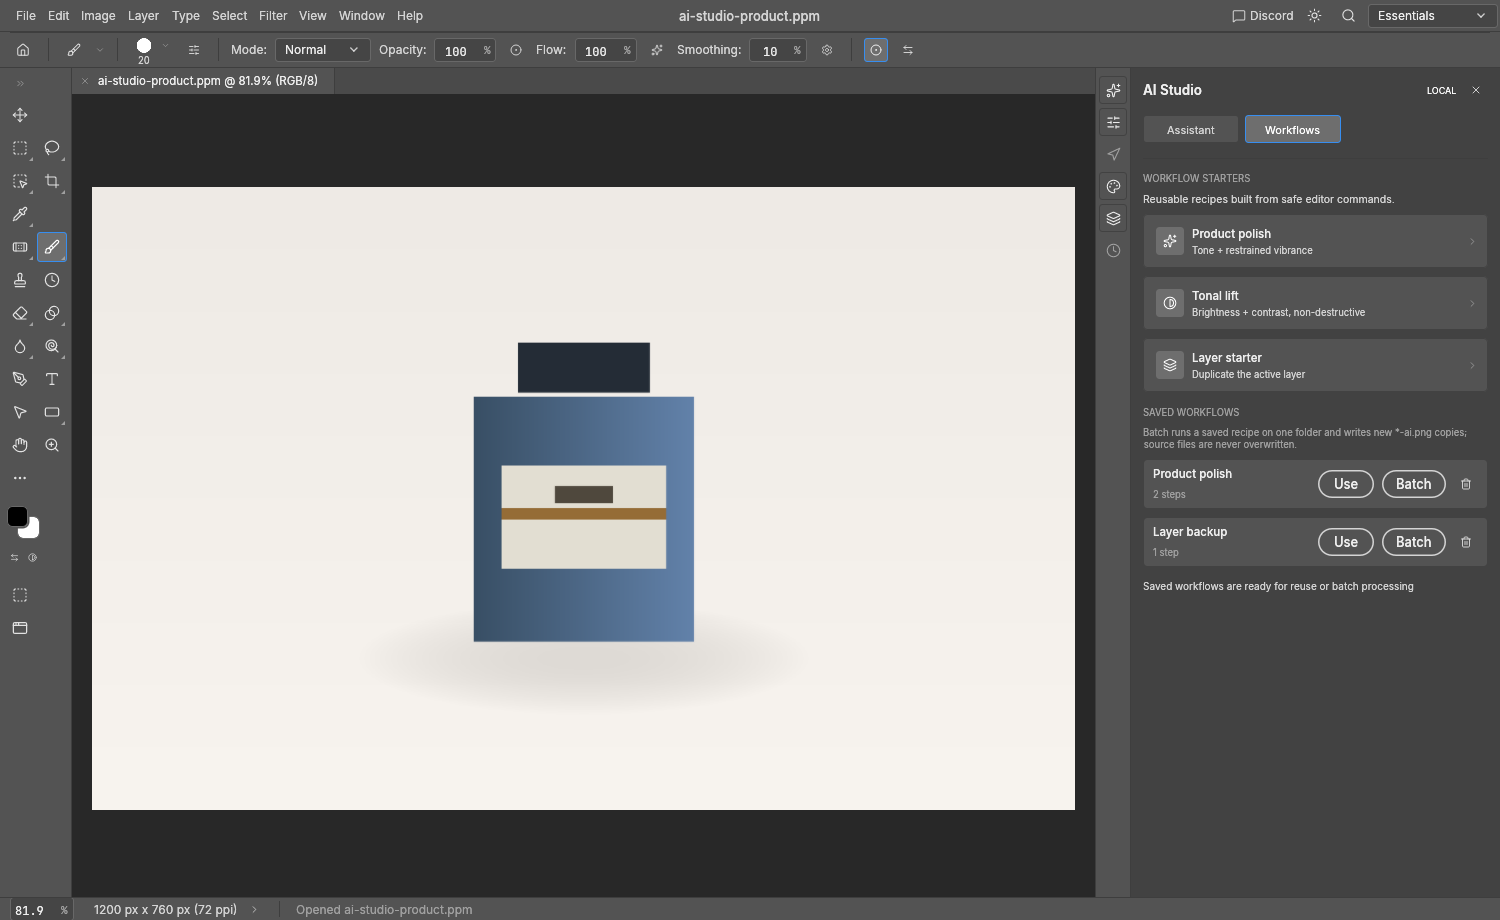
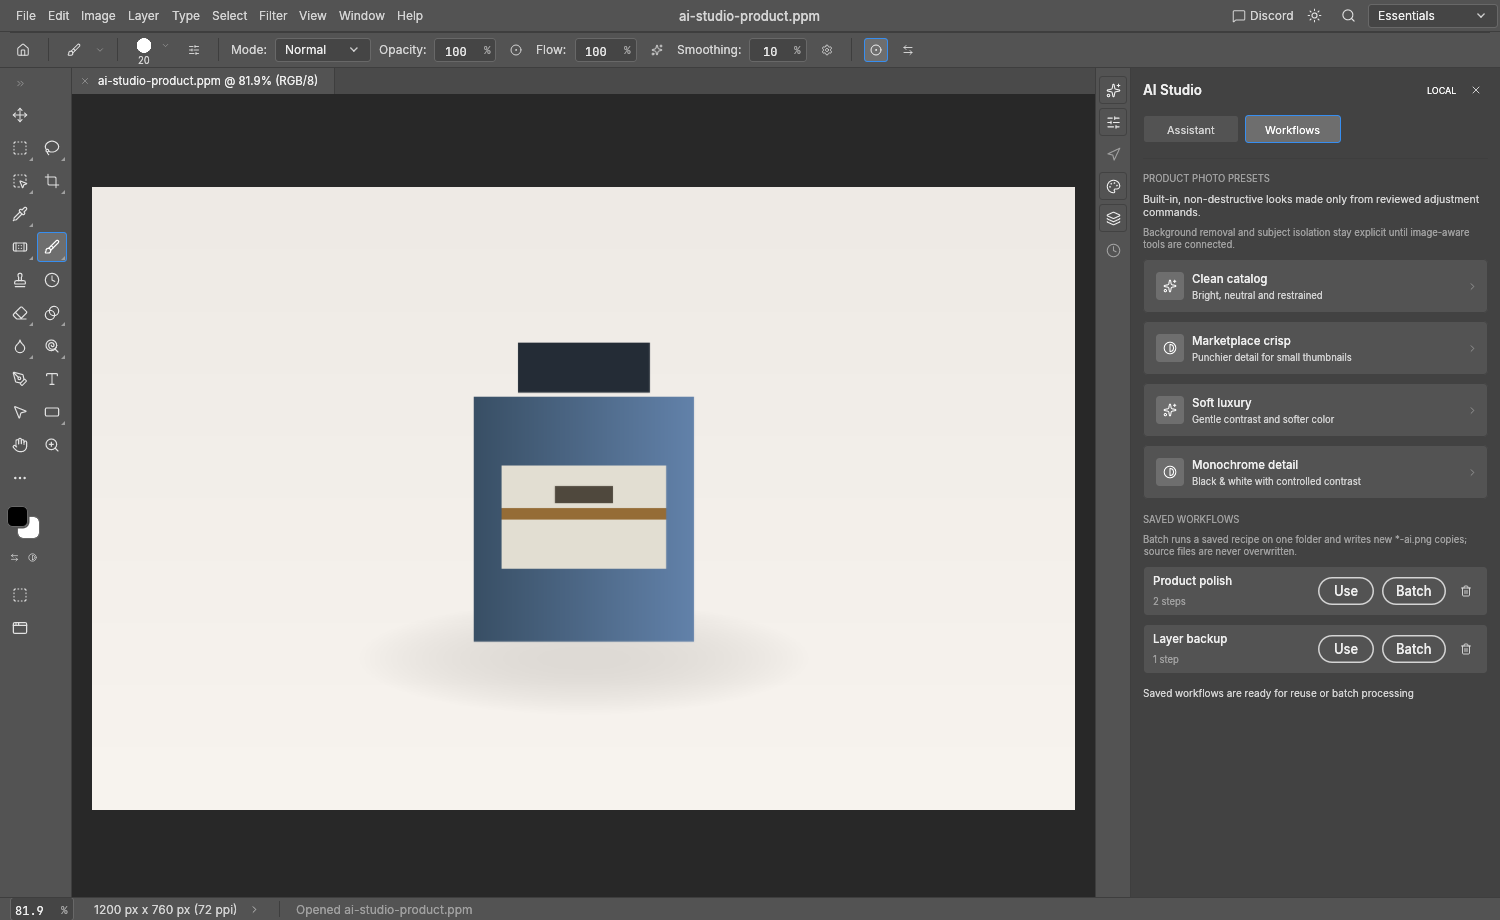
feat: add product photo workflow presets

Changed region(s): [[0.7667, 0.1826, 0.9813, 0.7], [0.7667, 0.7, 0.9813, 0.7609]]

diff --git a/crates/ui-egui/src/ai_panel.rs b/crates/ui-egui/src/ai_panel.rs
@@ -79,6 +79,73 @@ pub struct AiWorkflow {
     pub steps: Vec<AiStep>,
 }
 
+#[derive(Clone, Debug, PartialEq)]
+struct ProductPhotoPreset {
+    id: &'static str,
+    icon: &'static str,
+    title: &'static str,
+    subtitle: &'static str,
+    steps: Vec<AiStep>,
+}
+
+/// Built-in product-photo recipes intentionally use only reviewed, non-destructive adjustment
+/// commands. They do not pretend to remove backgrounds or isolate subjects: those operations need
+/// image-aware capabilities that are outside the current safe command surface.
+fn product_photo_presets() -> Vec<ProductPhotoPreset> {
+    vec![
+        ProductPhotoPreset {
+            id: "clean-catalog",
+            icon: "sparkles",
+            title: "Clean catalog",
+            subtitle: "Bright, neutral and restrained",
+            steps: vec![
+                AiStep::command("Open up the product tones", "layer.newAdjustmentLayer.brightnessContrast", json!({"brightness": 10, "contrast": 4})),
+                AiStep::command("Keep color natural", "layer.newAdjustmentLayer.vibrance", json!({"vibrance": 8, "saturation": 0})),
+            ],
+        },
+        ProductPhotoPreset {
+            id: "marketplace-crisp",
+            icon: "contrast",
+            title: "Marketplace crisp",
+            subtitle: "Punchier detail for small thumbnails",
+            steps: vec![
+                AiStep::command("Add crisp tonal separation", "layer.newAdjustmentLayer.brightnessContrast", json!({"brightness": 6, "contrast": 12})),
+                AiStep::command(
+                    "Shape the midtone curve",
+                    "layer.newAdjustmentLayer.curves",
+                    json!({"points": [[0, 0], [64, 58], [128, 132], [192, 202], [255, 255]]}),
+                ),
+                AiStep::command("Add controlled color pop", "layer.newAdjustmentLayer.vibrance", json!({"vibrance": 12, "saturation": 2})),
+            ],
+        },
+        ProductPhotoPreset {
+            id: "soft-luxury",
+            icon: "sparkles",
+            title: "Soft luxury",
+            subtitle: "Gentle contrast and softer color",
+            steps: vec![
+                AiStep::command("Soften the base contrast", "layer.newAdjustmentLayer.brightnessContrast", json!({"brightness": 5, "contrast": -4})),
+                AiStep::command(
+                    "Lift shadows and soften highlights",
+                    "layer.newAdjustmentLayer.curves",
+                    json!({"points": [[0, 8], [64, 70], [128, 134], [192, 195], [255, 248]]}),
+                ),
+                AiStep::command("Restrain saturation", "layer.newAdjustmentLayer.vibrance", json!({"vibrance": 5, "saturation": -4})),
+            ],
+        },
+        ProductPhotoPreset {
+            id: "mono-detail",
+            icon: "contrast",
+            title: "Monochrome detail",
+            subtitle: "Black & white with controlled contrast",
+            steps: vec![
+                AiStep::command("Convert with an editable B&W layer", "layer.newAdjustmentLayer.blackWhite", json!({})),
+                AiStep::command("Strengthen product detail", "layer.newAdjustmentLayer.brightnessContrast", json!({"brightness": 3, "contrast": 10})),
+            ],
+        },
+    ]
+}
+
 /// One desktop folder-batch request. The native runner revalidates `workflow` before touching any
 /// output and never writes to `input_dir`.
 #[derive(Clone, Debug, PartialEq)]
@@ -1104,17 +1171,15 @@ fn workflows_panel(app: &mut PhotocraftApp, ui: &mut egui::Ui) {
     let t = Tokens::get(ui.ctx());
     ui.spacing_mut().item_spacing.y = 8.0;
     ui.add_space(2.0);
-    ui.label(RichText::new("WORKFLOW STARTERS").size(9.5).color(t.text_faint).strong());
-    ui.label(RichText::new("Reusable recipes built from safe editor commands.").size(10.5).color(t.text_dim));
+    ui.label(RichText::new("PRODUCT PHOTO PRESETS").size(9.5).color(t.text_faint).strong());
+    ui.label(RichText::new("Built-in, non-destructive looks made only from reviewed adjustment commands.").size(10.5).color(t.text_dim));
+    ui.label(RichText::new("Background removal and subject isolation stay explicit until image-aware tools are connected.").size(9.5).color(t.text_faint));
 
-    for (icon, title, subtitle, prompt) in [
-        ("sparkles", "Product polish", "Tone + restrained vibrance", "Make it brighter with a little more contrast and vibrance"),
-        ("contrast", "Tonal lift", "Brightness + contrast, non-destructive", "Make this brighter and add contrast"),
-        ("layers", "Layer starter", "Duplicate the active layer", "Duplicate the active layer"),
-    ] {
-        if workflow_card(ui, &t, icon, title, subtitle) {
-            let prompt = prompt.to_string();
-            apply_plan(app, prompt.clone(), plan(&prompt), "workflow");
+    for preset in product_photo_presets() {
+        if workflow_card(ui, &t, preset.icon, preset.title, preset.subtitle) {
+            let prompt = format!("Use the {} product-photo preset", preset.title);
+            let planned = PlannedRequest { title: preset.title.into(), steps: preset.steps };
+            apply_plan(app, prompt, planned, "built-in product preset");
             app.ui.ai.tab = 0;
         }
     }
@@ -1222,6 +1287,44 @@ mod tests {
         assert!(p.steps.len() >= 2);
         assert!(validate(&p.steps).is_ok());
         assert!(p.steps.iter().all(|s| s.command.as_deref().is_some_and(|c| c.starts_with("layer."))));
+    }
+
+    #[test]
+    fn product_photo_presets_are_safe_non_destructive_plans() {
+        let presets = product_photo_presets();
+        assert_eq!(presets.len(), 4);
+        let mut ids = std::collections::BTreeSet::new();
+        for preset in presets {
+            assert!(ids.insert(preset.id), "duplicate preset id: {}", preset.id);
+            assert!(validate(&preset.steps).is_ok(), "{} must stay inside the reviewed AI boundary", preset.title);
+            assert!(
+                preset.steps.iter().all(|step| step.command.as_deref().is_some_and(|command| command.starts_with("layer.newAdjustmentLayer."))),
+                "{} should remain non-destructive and batch-safe",
+                preset.title
+            );
+        }
+    }
+
+    #[test]
+    fn product_photo_presets_execute_against_the_editor_engine() {
+        for preset in product_photo_presets() {
+            let mut app = PhotocraftApp::new(photocraft_engine::Session::new(), crate::Services::default());
+            app.run("file.new", json!({"width": 32, "height": 32})).unwrap();
+            app.ui.ai.plan_title = preset.title.into();
+            app.ui.ai.plan = preset.steps;
+            run_plan(&mut app);
+            assert!(!app.ui.ai.status_error, "{} failed: {}", preset.title, app.ui.ai.status);
+            assert!(app.session.undo(), "{} should remain one undoable editor transaction", preset.title);
+        }
+    }
+
+    #[test]
+    fn product_photo_presets_do_not_claim_unavailable_background_work() {
+        for preset in product_photo_presets() {
+            let text = format!("{} {}", preset.title, preset.subtitle).to_ascii_lowercase();
+            assert!(!text.contains("remove background"));
+            assert!(!text.contains("isolate"));
+        }
     }
 
     #[test]

diff --git a/docs/ai-studio.md b/docs/ai-studio.md
@@ -58,3 +58,11 @@ Before execution, AI Studio presents each step in editor language rather than ex
 ## Atomic plan execution
 
 Executable AI plans run as one history transaction. The shell injects an internal coalescing key only after the plan has passed validation, so model output and saved workflows cannot control history grouping. A successful multi-step plan appears as one `AI Plan: ?` undo state. If any later step fails, AI Studio automatically undoes the already-applied steps, removes the failed plan from redo history, and restores the command journal to its pre-plan state.
+
+## Product Photo Presets V1
+
+The Workflows tab includes four deterministic product-photo presets: **Clean catalog**, **Marketplace crisp**, **Soft luxury**, and **Monochrome detail**. These presets are not prompt templates; each expands directly into a reviewed editor plan so the user can inspect the exact adjustment layers before applying it.
+
+All V1 product presets are intentionally non-destructive and batch-safe. They use only brightness/contrast, curves, vibrance, and black-and-white adjustment layers already covered by the AI safety boundary. A preset therefore gets the same validation, plan review, atomic one-Undo execution, saved-workflow support, and folder-batch compatibility as any other executable AI plan.
+
+V1 does **not** claim to remove a background, isolate a product, synthesize shadows, or reposition a subject. Those operations require image-aware selection or generation capabilities that are not yet part of the reviewed command surface. The general product-photo natural-language request continues to show subject isolation as pending rather than pretending it happened.

diff --git a/README.md b/README.md
@@ -75,7 +75,7 @@ Model planner setup: [`docs/ai-studio.md`](docs/ai-studio.md)
 
 - [ ] Open PNG, JPEG, WebP and PSD documents.
 - [ ] Core layer / mask / text operations.
-- [ ] Product-photo workflow presets.
+- [x] Product-photo workflow presets (safe built-in adjustment recipes).
 - [x] Batch workflow execution from saved workflows (desktop V1: source folder → safe PNG copies).
 - [ ] Export PNG, JPEG, WebP and PSD where supported by the engine.
 
